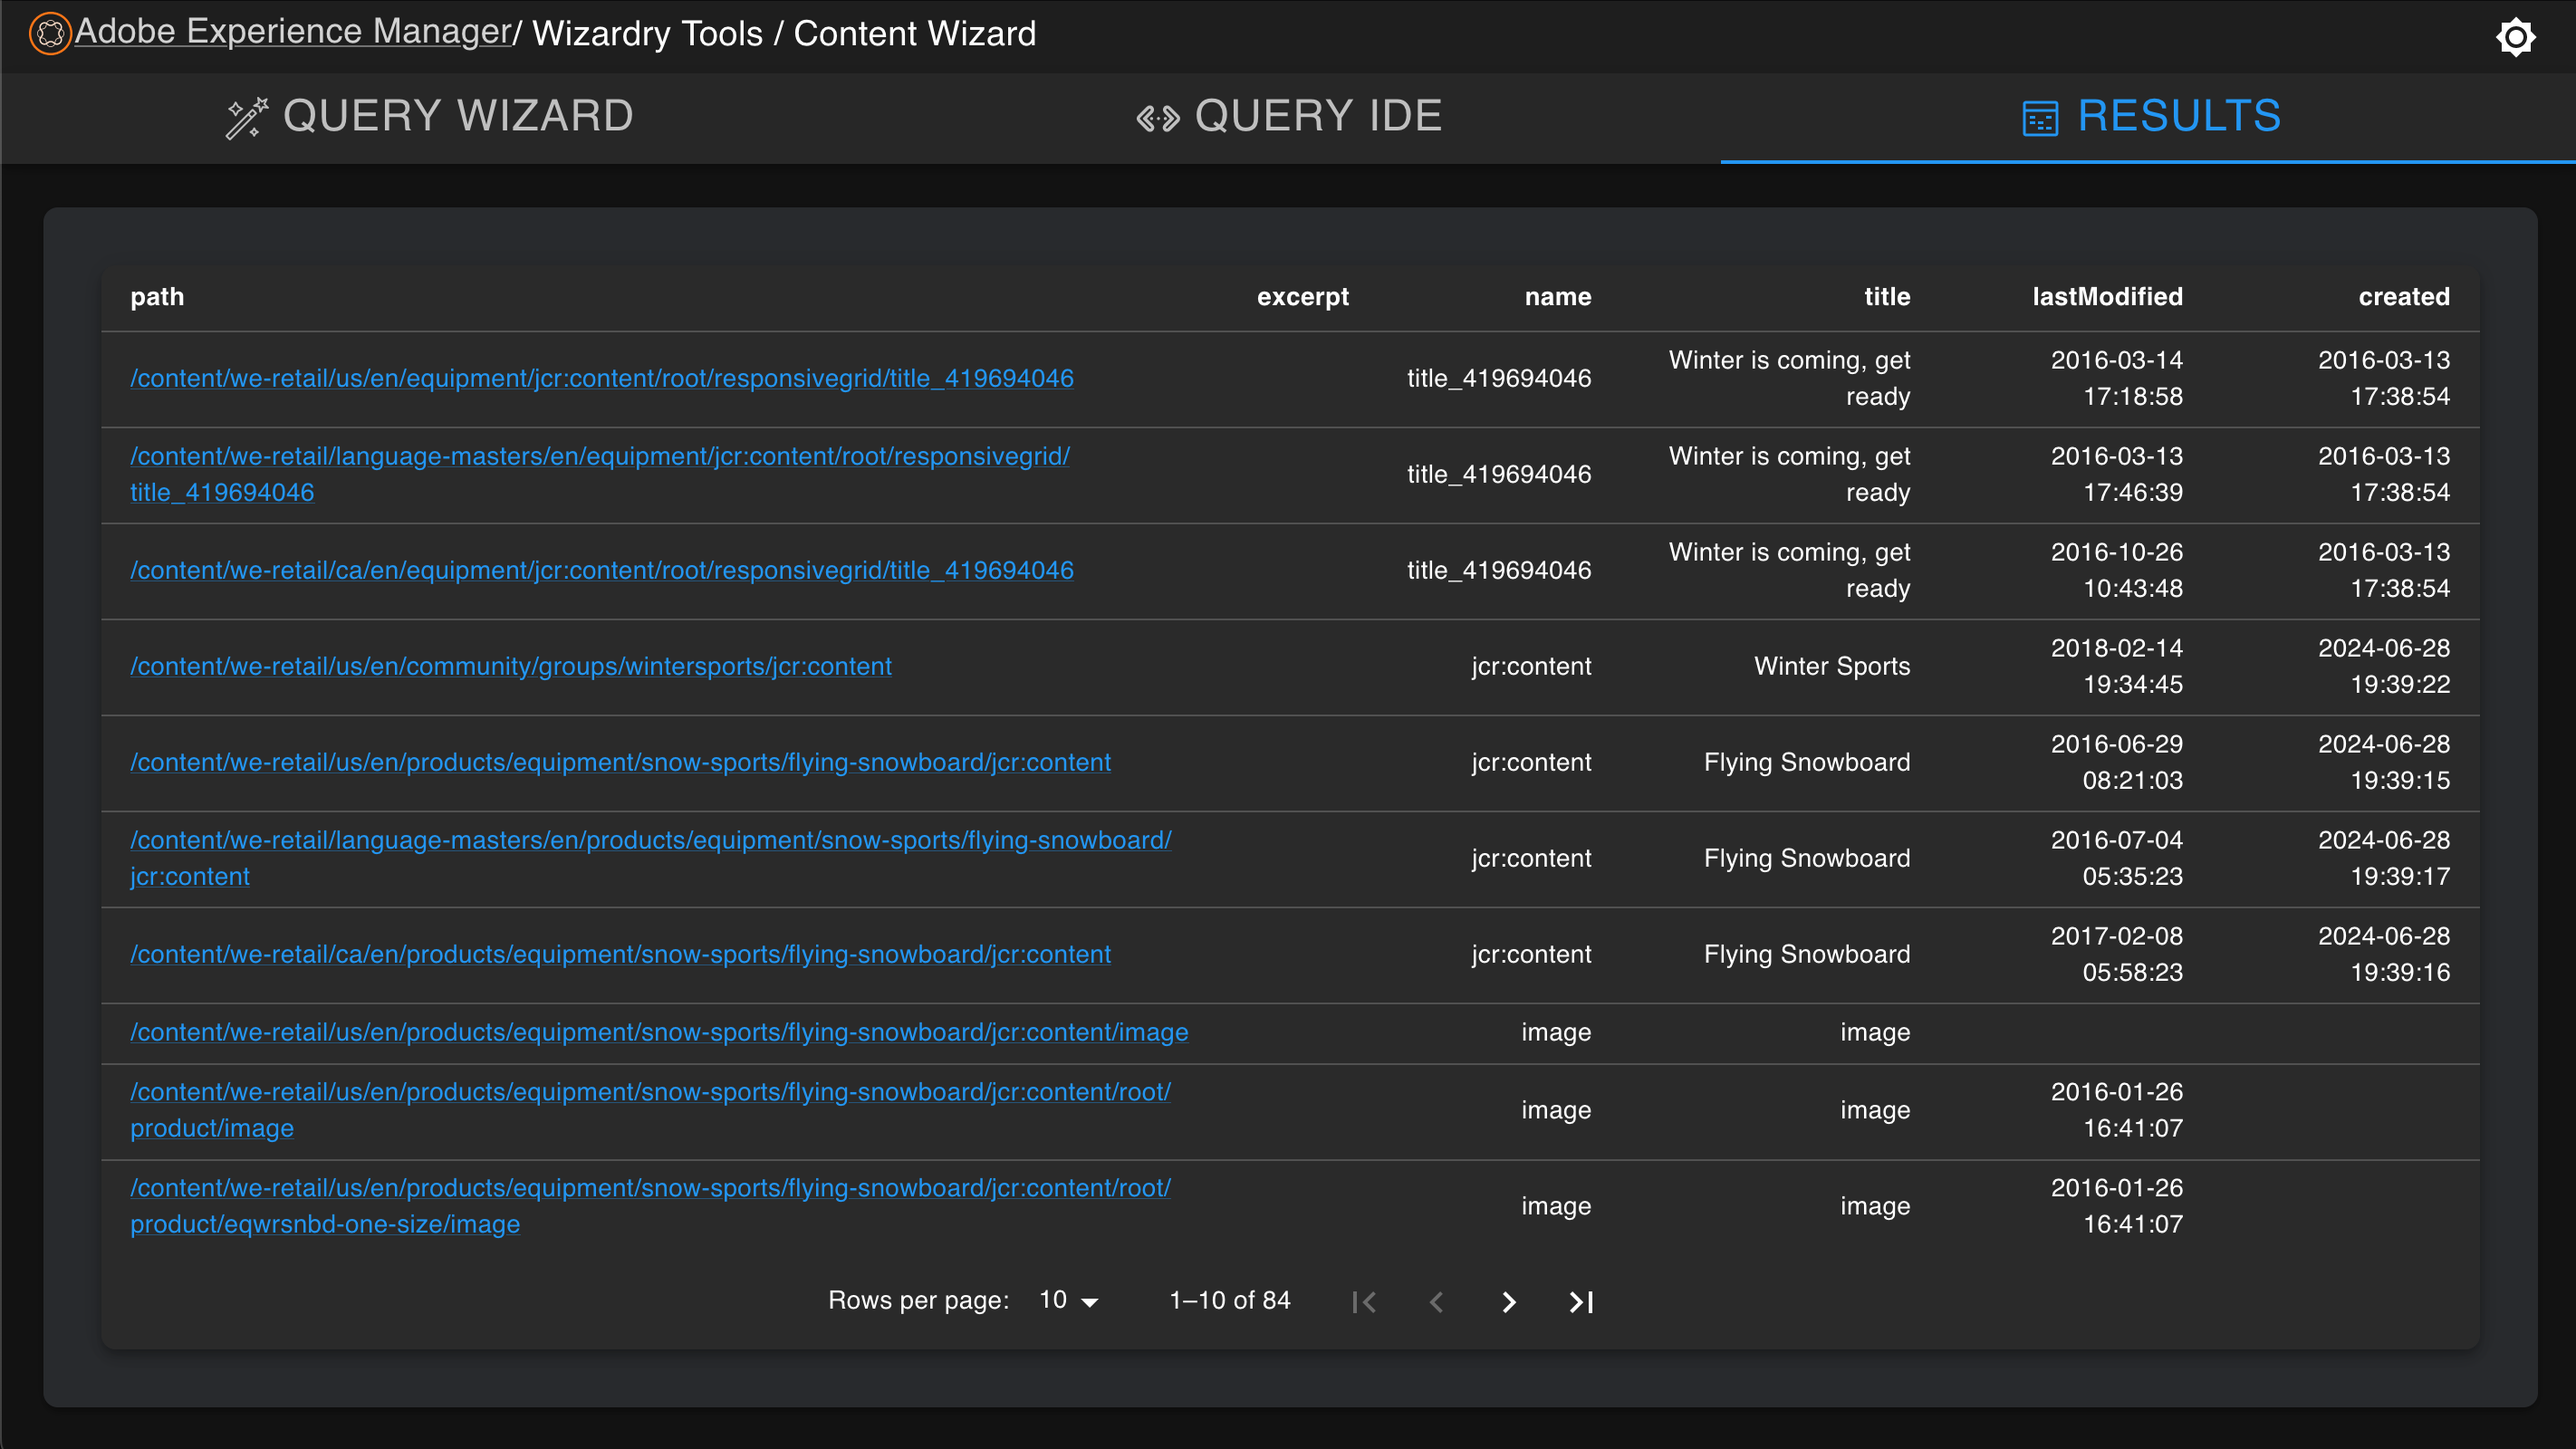
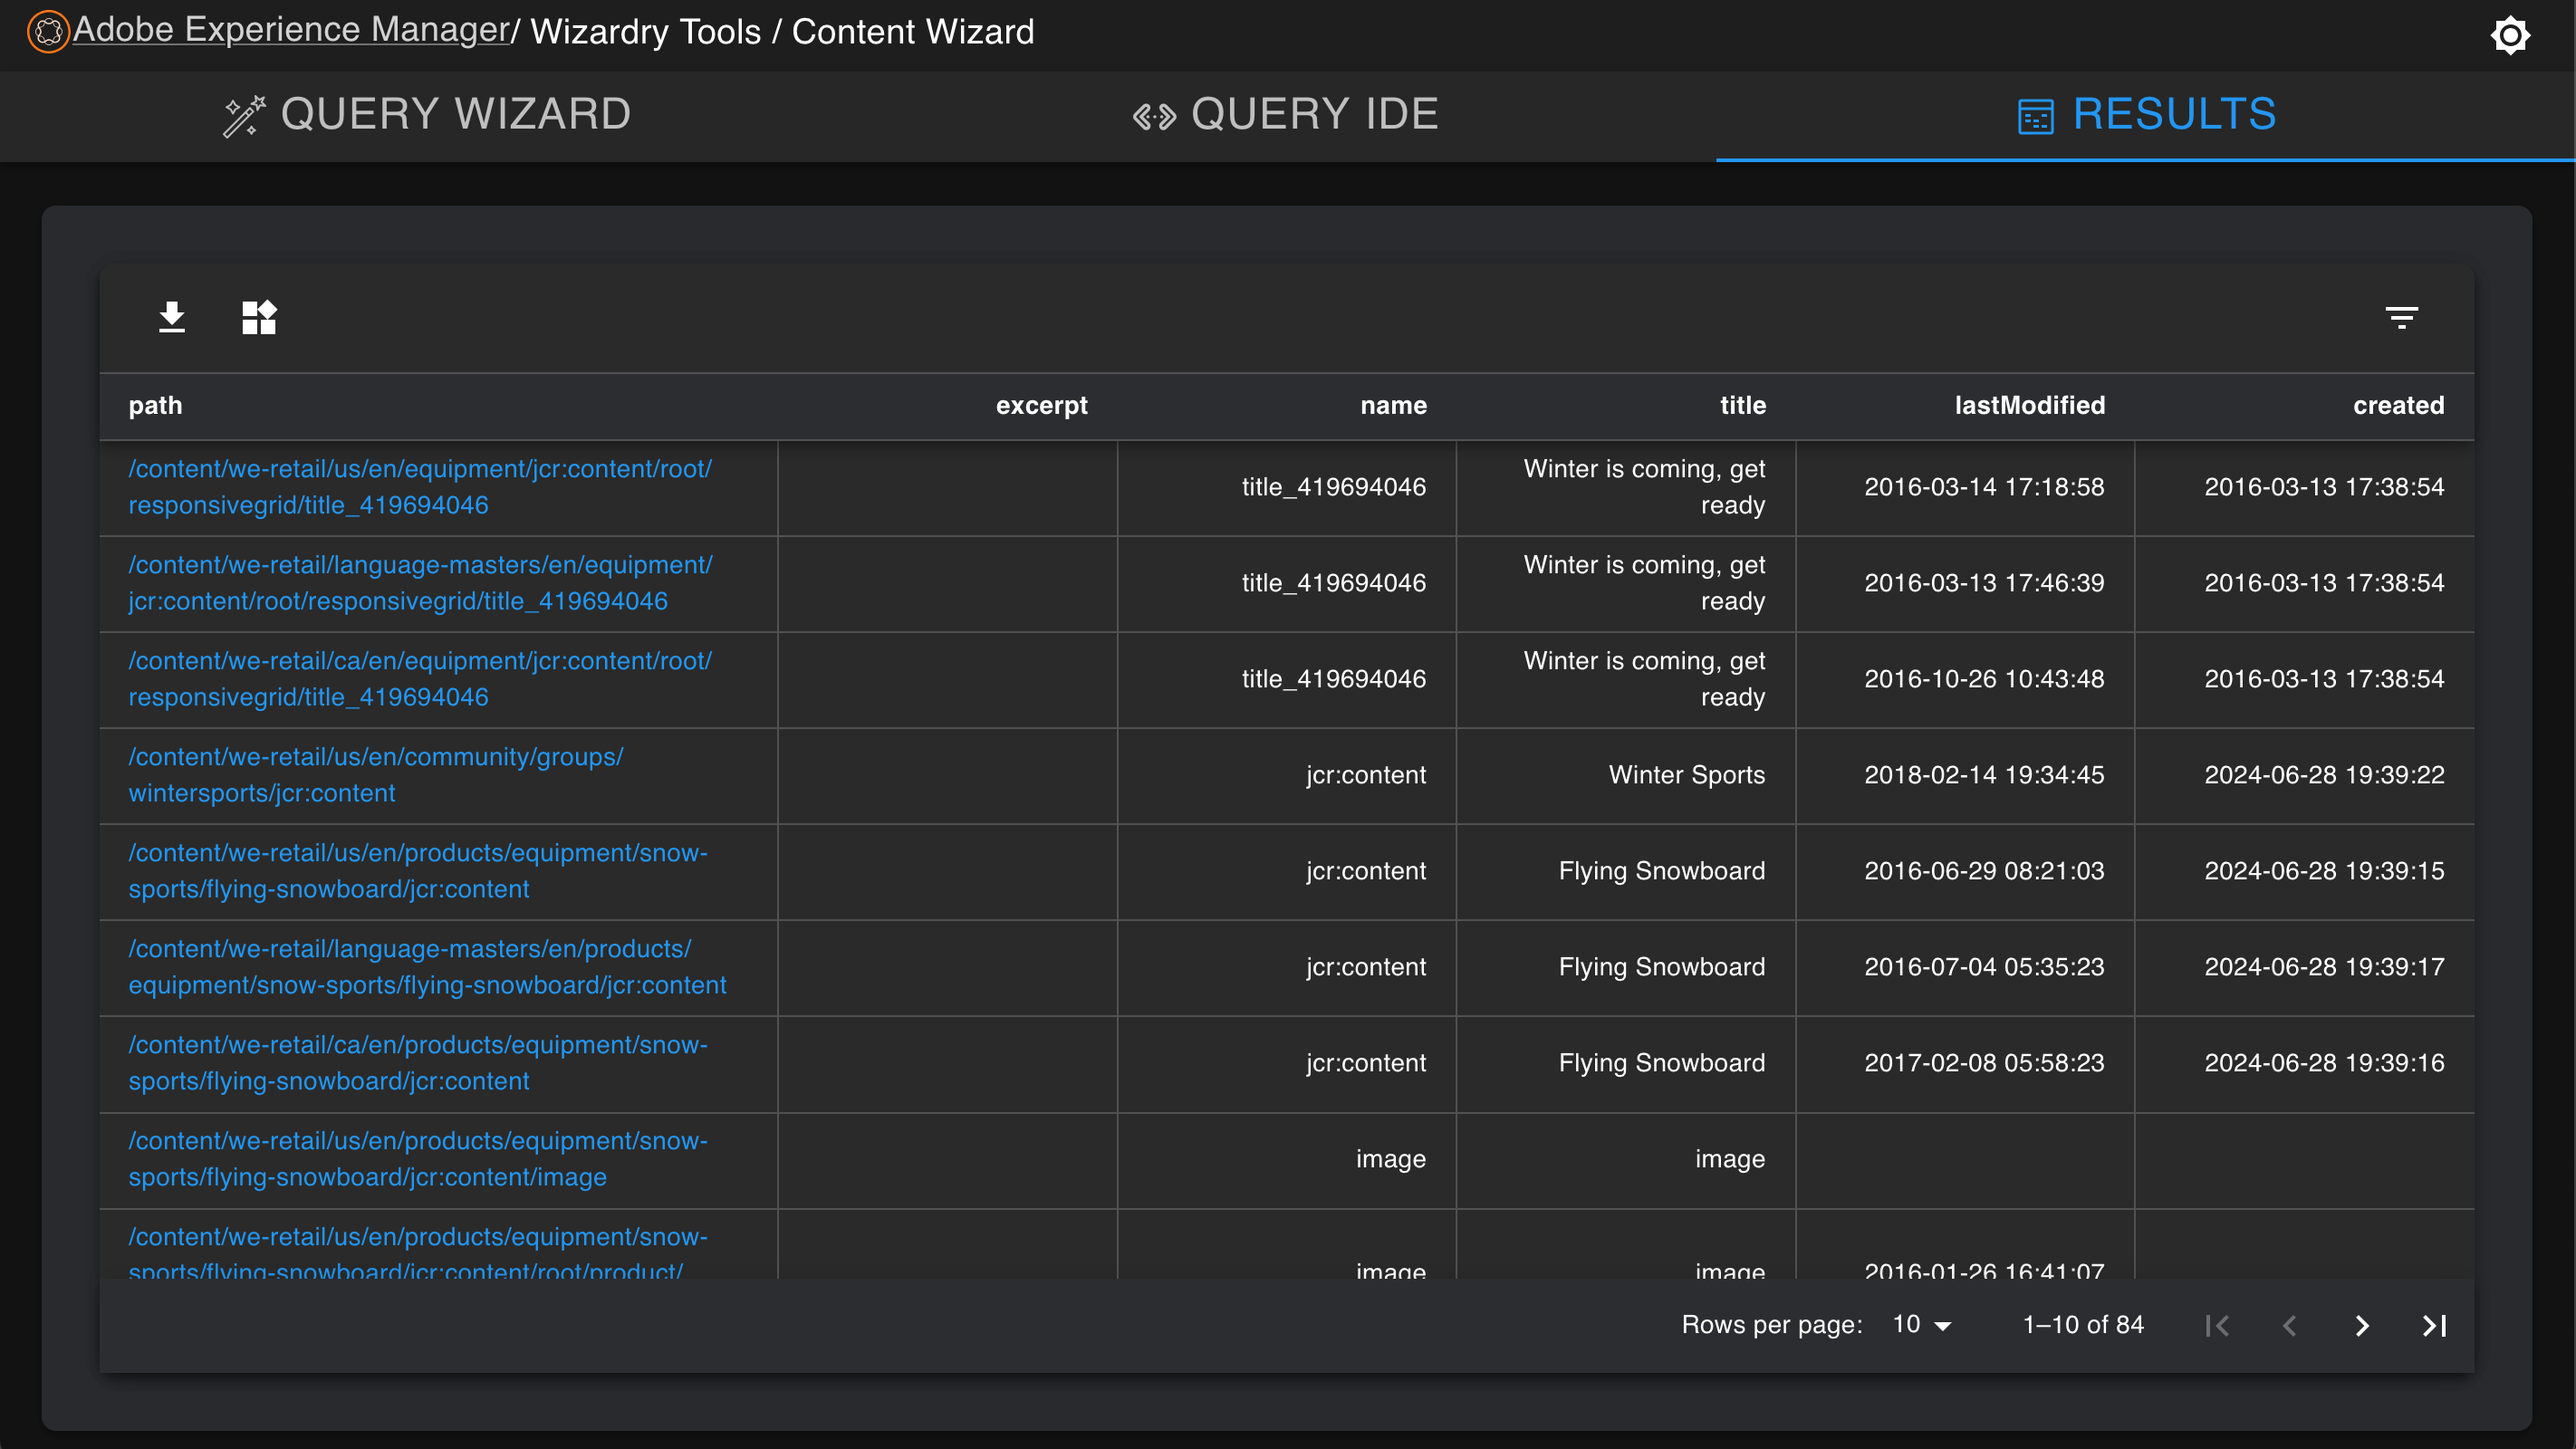
Added and updated content for the Results view

diff --git a/github/src/components/Hero.tsx b/github/src/components/Hero.tsx
@@ -10,8 +10,14 @@ import ideGraphqlDark from '../images/ide/ide-graphql-dark.webp';
 import ideGraphqlLight from '../images/ide/ide-graphql-light.webp';
 import resultsImageDark from '../images/results/results-dark.webp';
 import resultsImageLight from '../images/results/results-light.webp';
-import resultsExplorerImageDark from '../images/results/result-explorer-dark.webp';
-import resultsExplorerImageLight from '../images/results/result-explorer-light.webp';
+import resultsExplorerImageDark from '../images/results/results-explorer-dark.webp';
+import resultsExplorerImageLight from '../images/results/results-explorer-light.webp';
+import resultsExporterImageDark from '../images/results/results-exporter-dark.webp';
+import resultsExporterImageLight from '../images/results/results-exporter-light.webp';
+import resultsFilterSortImageDark from '../images/results/results-filter-sort-dark.webp';
+import resultsFilterSortImageLight from '../images/results/results-filter-sort-light.webp';
+import resultsBuilderImageDark from '../images/results/results-builder-dark.webp';
+import resultsBuilderImageLight from '../images/results/results-builder-light.webp';
 import { ReactComponent as LogoIcon } from '../wizard-logo.svg';
 import { ReactComponent as WandIcon } from '../icons/magic-wand.svg';
 import { ReactComponent as CodeIcon } from '../icons/programming-code.svg';
@@ -406,6 +412,33 @@ export default function Hero() {
               width: { sm: '100%', md: '80%' },
             }}
           >
+            Sort and filter the results table, making it easier to pin-point and confirm content values.
+          </Typography>
+        </Stack>
+        <StyledBox
+          id="image"
+          sx={{
+            backgroundImage: `url(${isDarkMode ? resultsFilterSortImageDark : resultsFilterSortImageLight})`,
+          }}
+        />
+        <Stack
+          spacing={2}
+          useFlexGap
+          flexGrow={1}
+          flexShrink={1}
+          sx={{
+            alignItems: 'center',
+            width: { xs: '100%', sm: '70%' },
+            marginTop: theme.spacing(4),
+          }}
+        >
+          <Typography
+            sx={{
+              textAlign: 'center',
+              color: 'text.secondary',
+              width: { sm: '100%', md: '80%' },
+            }}
+          >
             Explore the JSON of each result. Easily review or copy the JSON of an individual result, along with
             convenient links to open the content in AEM.
           </Typography>
@@ -414,6 +447,63 @@ export default function Hero() {
           id="image"
           sx={{
             backgroundImage: `url(${isDarkMode ? resultsExplorerImageDark : resultsExplorerImageLight})`,
+          }}
+        />
+        <Stack
+          spacing={2}
+          useFlexGap
+          flexGrow={1}
+          flexShrink={1}
+          sx={{
+            alignItems: 'center',
+            width: { xs: '100%', sm: '70%' },
+            marginTop: theme.spacing(4),
+          }}
+        >
+          <Typography
+            sx={{
+              textAlign: 'center',
+              color: 'text.secondary',
+              width: { sm: '100%', md: '80%' },
+            }}
+          >
+            Export the results as CSV, JSON, XML, XSL(Excel), or HTML. <br />
+            Easily share the results with your team.
+          </Typography>
+        </Stack>
+        <StyledBox
+          id="image"
+          sx={{
+            backgroundImage: `url(${isDarkMode ? resultsExporterImageDark : resultsExporterImageLight})`,
+          }}
+        />
+        <Stack
+          spacing={2}
+          useFlexGap
+          flexGrow={1}
+          flexShrink={1}
+          sx={{
+            alignItems: 'center',
+            width: { xs: '100%', sm: '70%' },
+            marginTop: theme.spacing(4),
+          }}
+        >
+          <Typography
+            sx={{
+              textAlign: 'center',
+              color: 'text.secondary',
+              width: { sm: '100%', md: '80%' },
+            }}
+          >
+            Create, Build, and Download an AEM content package of the results. <br />
+            Easily export the content for installation into another environment. <br />
+            Also serves as a convenient way to create targeted content backups.
+          </Typography>
+        </Stack>
+        <StyledBox
+          id="image"
+          sx={{
+            backgroundImage: `url(${isDarkMode ? resultsBuilderImageDark : resultsBuilderImageLight})`,
           }}
         />
       </Container>

diff --git a/github/src/components/Highlights.tsx b/github/src/components/Highlights.tsx
@@ -1,9 +1,9 @@
-import { Box, Card, Container, Grid, Stack, SvgIcon, Typography } from '@mui/material';
+import { Box, Card, Container, Grid, Stack, Typography } from '@mui/material';
 import ConstructionRoundedIcon from '@mui/icons-material/ConstructionRounded';
 import QueryStatsRoundedIcon from '@mui/icons-material/QueryStatsRounded';
 import SettingsSuggestRoundedIcon from '@mui/icons-material/SettingsSuggestRounded';
 import HighlightIcon from '@mui/icons-material/Highlight';
-import { ReactComponent as CopyIcon } from '../icons/copy.svg';
+import IosShareIcon from '@mui/icons-material/IosShare';
 import ThumbUpAltRoundedIcon from '@mui/icons-material/ThumbUpAltRounded';
 
 const items = [
@@ -23,13 +23,13 @@ const items = [
     icon: <ThumbUpAltRoundedIcon />,
     title: 'Great user experience',
     description:
-      "Seamlessly navigate between Content Wizard's different views. Swap between Query Wizard and Query IDE when building QueryBuilder statements.",
+      "Seamlessly navigate between Content Wizard's different views. Swap between Query Wizard and Query IDE when building QueryBuilder statements. Exposing powerful content features that are easy to use.",
   },
   {
-    icon: <SvgIcon component={CopyIcon} sx={{ fill: 'none' }} />,
-    title: 'Export Queries and Results',
+    icon: <IosShareIcon />,
+    title: 'Export Query, Results, and Content',
     description:
-      "Convenient Copy functionality exists for the Query Wizard, Query IDE, and Results, so that you can easily copy the current Query Statement or Results to your device's clipboard.",
+      'Conveniently copy query statements to clipboard, download the results as a sharable data file, extract the content of results as an AEM content package zip.',
   },
   {
     icon: <HighlightIcon />,

diff --git a/github/src/components/FAQ.tsx b/github/src/components/FAQ.tsx
@@ -181,6 +181,16 @@ const questionsAndAnswers: QuestionAnswer[] = [
       </>
     ),
   },
+  {
+    question: 'When I export results as XLS, why do I see a warning when opening in Excel?',
+    answer: (
+      <p>
+        This is because the tool exports 'XLS' results as an HTML table, and the metadata doesn't match what Excel
+        expects for an XLS file. The file is safe to open in Excel, and will look slightly different than a CSV file
+        opened in Excel. CSV is the default export type.
+      </p>
+    ),
+  },
 ];
 
 export default function FAQ() {
